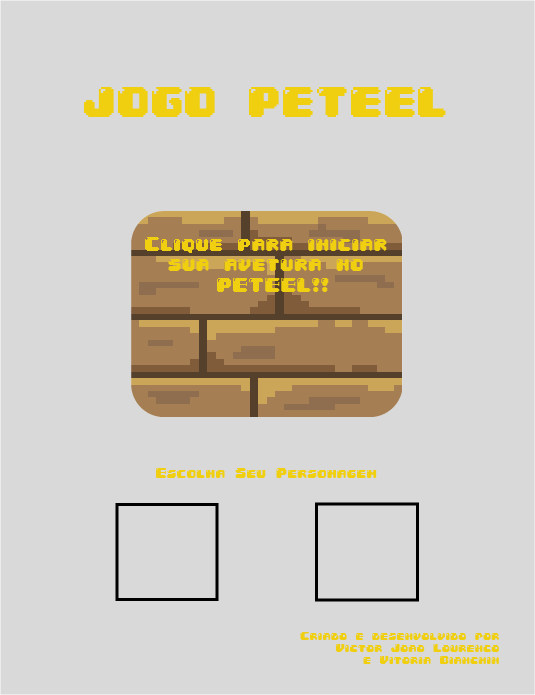
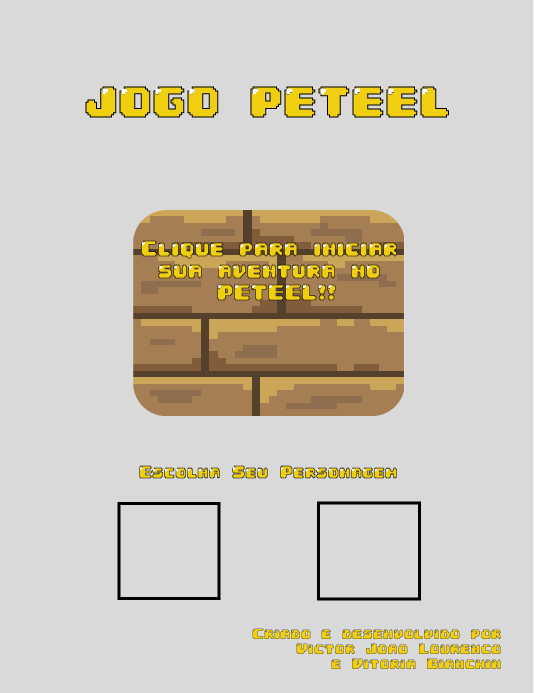
Mudado a Página inicial porem com erro na Qualidade, aguaradando commit de melhora de qualidade

diff --git a/esqueleto.py b/esqueleto.py
@@ -3,7 +3,7 @@ import pygame
 def main():
     pygame.init()
     tela = pygame.display.set_mode([500,650])
-    pygame.display.set_caption("Página Inicial")
+    pygame.display.set_caption("Jogo PETEEL")
     relogio = pygame.time.Clock()
 
     #CORES
@@ -21,7 +21,7 @@ def main():
     botao = pygame.Rect((200, 362, 100, 50))
 
     #IMAGENS
-    pag_inicial = pygame.image.load("Imagens/Página inicial/paginicial3.png")
+    pag_inicial = pygame.image.load("Imagens/Página inicial/paginicial.png")
     sp_paginicial = pygame.sprite.Sprite()
     sp_paginicial.pag_inicial = pag_inicial
     sp_paginicial.rect = pag_inicial.get_rect()
